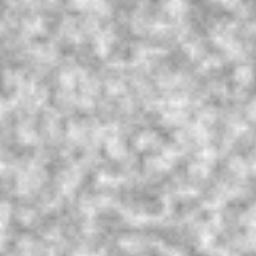
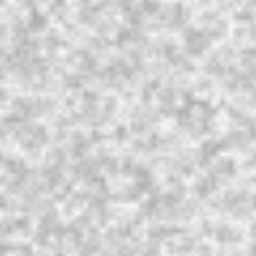
Retune Paperback grain (30 cells / 2 octaves / seed 782 / 0.34 opacity / 200px tile) and add a Georgia font-compare toggle
The toggle is a small sidebar checkbox (header.php) that adds a
compare-georgia class to <body> via js/compare-font.js, which just
swaps the --font-body custom property and remembers the choice in
localStorage. It's a temporary dev tool for comparing Merriweather
vs. Georgia live, and also a preview of the class-toggle +
localStorage pattern the real Dusk/Night scheme switcher will use.

diff --git a/style.css b/style.css
@@ -64,7 +64,7 @@ body {
 	   no such surprise: what you see in the file is exactly what paints. */
 	background-image: url("grain.png");
 	background-repeat: repeat;
-	background-size: 150px 150px;
+	background-size: 200px 200px;
 	background-blend-mode: overlay;
 }
 
@@ -173,6 +173,30 @@ h3 {
 	border: 1px solid var(--color-border);
 	padding: 0.4rem 0.75rem;
 	cursor: pointer;
+}
+
+/* Temporary dev tool: lets us A/B the body font live. Remove this
+   block (and the matching bits in header.php/functions.php/js/) once
+   a font is chosen for good. */
+.site-font-toggle {
+	margin-bottom: 2rem;
+	font-size: 0.85rem;
+	color: var(--color-muted);
+}
+
+.site-font-toggle label {
+	display: flex;
+	align-items: center;
+	gap: 0.4rem;
+	cursor: pointer;
+}
+
+/* When the checkbox is on, JS adds this class to <body>. Redefining
+   --font-body here (rather than writing a second font-family rule)
+   means every element that reads var(--font-body) -- now or later --
+   switches automatically, with nothing else to keep in sync. */
+body.compare-georgia {
+	--font-body: Georgia, 'Times New Roman', Times, serif;
 }
 
 .site-social {

diff --git a/js/compare-font.js b/js/compare-font.js
@@ -1,0 +1,33 @@
+/**
+ * A checkbox in the sidebar that flips the whole site between the
+ * theme's default body font (Merriweather) and Georgia, live, so you
+ * can compare them side by side while deciding. The choice is saved
+ * in localStorage (the browser's own small per-site storage) so it
+ * survives a page reload/navigation.
+ *
+ * This is a small preview of the exact pattern the real Paperback /
+ * Dusk / Night scheme switcher will use later: a control toggles a
+ * class on <body>, CSS variables respond to that class, and
+ * localStorage remembers the choice between visits.
+ */
+(function () {
+	var STORAGE_KEY = 'kelweaver-compare-georgia';
+	var checkbox = document.getElementById( 'font-compare-toggle' );
+
+	if ( ! checkbox ) {
+		return;
+	}
+
+	function apply( on ) {
+		document.body.classList.toggle( 'compare-georgia', on );
+	}
+
+	var saved = localStorage.getItem( STORAGE_KEY ) === '1';
+	checkbox.checked = saved;
+	apply( saved );
+
+	checkbox.addEventListener( 'change', function () {
+		localStorage.setItem( STORAGE_KEY, checkbox.checked ? '1' : '0' );
+		apply( checkbox.checked );
+	} );
+})();

diff --git a/functions.php b/functions.php
@@ -44,6 +44,17 @@ function kelweaver_scripts() {
 		array( 'kelweaver-google-fonts' ),
 		filemtime( get_stylesheet_directory() . '/style.css' )
 	);
+
+	// Temporary dev tool: the sidebar checkbox that lets us compare the
+	// site in Merriweather vs. Georgia. Fine to remove once a font is
+	// settled on for good.
+	wp_enqueue_script(
+		'kelweaver-compare-font',
+		get_stylesheet_directory_uri() . '/js/compare-font.js',
+		array(),
+		filemtime( get_stylesheet_directory() . '/js/compare-font.js' ),
+		true
+	);
 }
 add_action( 'wp_enqueue_scripts', 'kelweaver_scripts' );
 

diff --git a/header.php b/header.php
@@ -54,6 +54,13 @@
 			<?php echo get_search_form( false ); ?>
 		</div>
 
+		<div class="site-font-toggle">
+			<label>
+				<input type="checkbox" id="font-compare-toggle">
+				<?php esc_html_e( 'Compare: Georgia', 'kelweaver' ); ?>
+			</label>
+		</div>
+
 		<ul class="site-social">
 			<?php foreach ( kelweaver_social_links() as $link ) : ?>
 				<li>
